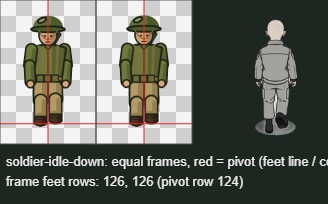
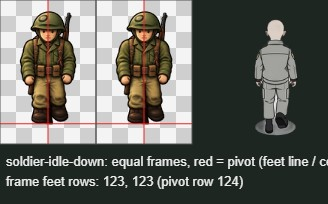
Round 2 art: v3 down walk and painted idle, boom rest fork, side-cliff trial
- Walk down v3 and the painted idle registered as candidates (replacing
  v2 and the rig idle); v3 passes the planted-foot check with no warnings.
  tools/capture-walk-clip.cjs now loops walk down -> idle -> walk up for
  the continuity clip.
- Boom rest fork (provisional) at WORLD.checkpoint.boomRest; a test pins
  the closed tip in its seat. Fence post moved to (76, 682).
- Side cliff strip and caps trialled on the gate spur only: stepped side
  slices drawn farthest-last (one lip, continuous wall), caps close the
  front strip's ends. Candidates.
- capture-gate-art.cjs gains --candidates; the terrain trial adds a 1x
  spur view. Review recorded in 07_GATE_ART_REVIEW.md and a sixth
  feedback round.

diff --git a/js/asset-manifest.js b/js/asset-manifest.js
@@ -152,16 +152,14 @@ const ASSET_MANIFEST = {
         status: 'candidate', framesPerDirection: 6, directions: ['down', 'up', 'right'], strideWorld: 22,
         drawn: {
           down: {
-            // v2: Codex's paint-over of the rig template (art/production/
-            // TERRAIN_AND_WALK_HANDOFF.md). Its foot track is MEASURED from the
-            // pixels (tools/measure-foot-track.cjs), not rendered: planted feet
-            // move 24, 22 | 25, 18 source px per frame against 25 needed (up to
-            // ~1 world px of skate at frame 5->6); helmet fixed at row 30 (no
-            // bob); accent 100% on the body, identical in every frame.
-            // The rig's own v1 strip regenerates with tools/rig-soldier.cjs.
-            status: 'candidate', file: 'assets/units/candidates/soldier-walk-down-v2.webp', version: 2,
-            source: 'art/rig/soldier_walk_down_painted_candidate.png', accent: 'art/rig/soldier_walk_down_painted_candidate_accent.png',
-            gaitTrack: 'art/rig/soldier_walk_down_painted_candidate.json', alphaCleanup: true, tint: 'none',
+            // v3: Codex's corrected paint-over (art/production/ROUND2_ART_HANDOFF.md).
+            // Measured track (tools/measure-foot-track.cjs, same result as the
+            // supplied JSON): planted sole moves 25 source px every frame, no
+            // slip; trailing sole 82 px up at frame 4; helmet fixed at row 30;
+            // accent 100% on the body, identical every frame.
+            status: 'candidate', file: 'assets/units/candidates/soldier-walk-down-v3.webp', version: 3,
+            source: 'art/rig/soldier_walk_down_painted_v3.png', accent: 'art/rig/soldier_walk_down_painted_v3_accent.png',
+            gaitTrack: 'art/rig/soldier_walk_down_painted_v3.json', alphaCleanup: true, tint: 'none',
             frames: [[0, 0, 256, 384], [256, 0, 256, 384], [512, 0, 256, 384], [768, 0, 256, 384], [1024, 0, 256, 384], [1280, 0, 256, 384]],
             pivot: [128, 330], headroom: 30, output: { frameHeight: 144 },
             names: ['R contact', 'R down', 'passing', 'L contact', 'L down', 'passing'],
@@ -172,8 +170,10 @@ const ASSET_MANIFEST = {
         status: 'candidate', framesPerDirection: 2, directions: ['down', 'up', 'right'],
         drawn: {
           down: {
-            status: 'candidate', file: 'assets/units/candidates/soldier-idle-down-v1.webp', version: 1,
-            source: 'art/rig/soldier_idle_down.png', accent: 'art/rig/soldier_idle_down_accent.png', alphaCleanup: true, tint: 'none',
+            // Painted idle from the same master as walk v3 (frame 3); both boots
+            // on row 330 in both frames, ~1% chest rise for breathing.
+            status: 'candidate', file: 'assets/units/candidates/soldier-idle-down-v2.webp', version: 2,
+            source: 'art/rig/soldier_idle_down_painted_candidate.png', accent: 'art/rig/soldier_idle_down_painted_candidate_accent.png', alphaCleanup: true, tint: 'none',
             frames: [[0, 0, 256, 384], [256, 0, 256, 384]], pivot: [128, 330], headroom: 30, output: { frameHeight: 144 },
             frameMs: [900, 900],
           },
@@ -255,6 +255,9 @@ const ASSET_MANIFEST = {
     kioskFront: { file: 'assets/props/gate_kiosk_front.png', size: [180, 318], pivot: [90, 300] },
     boom: { file: 'assets/props/gate_boom_swing.png', size: [142, 46], pin: [9, 30], reachPx: 126, axisDeg: -8 },
     post: { file: 'assets/props/gate_boom_post.png', size: [51, 84], pin: [21, 21], ground: [25, 78] },
+    // Fixed fork for the closed tip (art/production/ROUND2_ART_HANDOFF.md);
+    // reviewed in capture: the closed tip rests in its seat (render-data test).
+    rest: { status: 'provisional', file: 'assets/props/gate_boom_rest_post.png', size: [50, 74], ground: [25, 70], seat: [25, 20] },
   },
 
   terrain: {
@@ -269,6 +272,12 @@ const ASSET_MANIFEST = {
     cliff_face: { status: 'candidate', file: 'assets/terrain/cliff_face_3x.png', density: 3, size: [384, 184], edgeRow: 12, role: 'cliff lip at the plateau edge, face hangs to the foot' },
     shore_edge: { status: 'candidate', file: 'assets/terrain/shore_edge_3x.png', density: 3, size: [384, 142], edgeRow: 114, role: 'land lip above water; edge row on the waterline' },
     foam_rock_drop: { status: 'candidate', file: 'assets/terrain/foam_rock_drop_3x.png', density: 3, size: [384, 82], edgeRow: 41, role: 'foam at the waterline' },
+    // Round 2 (art/production/cliff-side-and-rest-v1.json): side face for
+    // cliff edges turned from the camera, and caps for the ends of a front
+    // strip. Trial only on `trialAreas`.
+    cliff_side_face: { status: 'candidate', file: 'assets/terrain/cliff_side_face_3x.png', density: 3, size: [384, 183], edgeRow: 12, trialAreas: ['cliff_west_spur'] },
+    cliff_side_cap_left: { status: 'candidate', file: 'assets/terrain/cliff_side_cap_left_3x.png', density: 3, size: [152, 183], edgeRow: 12, overlapPx: 15 },
+    cliff_side_cap_right: { status: 'candidate', file: 'assets/terrain/cliff_side_cap_right_3x.png', density: 3, size: [152, 183], edgeRow: 12, overlapPx: 15 },
     shore_corner_west_to_south: { status: 'candidate', file: 'assets/terrain/shore_corner_west_to_south_3x.png', density: 3, size: [256, 256], corner: [128, 128], unused: true },
     shore_corner_east_to_south: { status: 'candidate', file: 'assets/terrain/shore_corner_east_to_south_3x.png', density: 3, size: [256, 256], corner: [128, 128], unused: true },
     procedural: { status: 'interim', note: 'Cliffs, water, trees, rocks and fences are drawn in js/scenery.js until the terrain kit exists.' },

diff --git a/js/scenery.js b/js/scenery.js
@@ -53,7 +53,7 @@ function distanceToTerrain(x, y) {
 const SCENE_PROP_PLACEMENTS = [
   { prop: 'scene_lamp', x: 100, y: 642, base: 4 },              // inside the gate
   { prop: 'scene_fence', x: 36, y: 672, base: 12, scale: 0.7 },  // gate wing, south
-  { prop: 'scene_fence_post', x: 64, y: 656, base: 4, scale: 0.7 },
+  { prop: 'scene_fence_post', x: 76, y: 682, base: 4, scale: 0.7 },  // moved off the gate row (round 2 handoff)
   { prop: 'scene_noticeboard', x: 300, y: 574, base: 8 },       // by the Entrance Hall path
   { prop: 'scene_rock_moss', x: 214, y: 580, base: 10 },        // brook bank
   { prop: 'scene_grass_flower', x: 278, y: 652, base: 6 },
@@ -351,7 +351,30 @@ function drapeStrip(ctx, strip, samples, lift = 0) {
 }
 
 function terrainStripsReady() {
-  return ['cliff_face', 'shore_edge', 'foam_rock_drop'].filter(id => terrainStrip(id)).length;
+  return ['cliff_face', 'shore_edge', 'foam_rock_drop', 'cliff_side_face', 'cliff_side_cap_left', 'cliff_side_cap_right'].filter(id => terrainStrip(id)).length;
+}
+
+// One vertical slice of a strip, `w` world px wide, its edge row on `lipY`,
+// texture starting `u` world px into the repeat.
+function drawStripSlice(ctx, strip, x, lipY, w, u) {
+  const { entry, img } = strip, d = entry.density;
+  const sw = Math.min(entry.size[0], w * d), sx = Math.min(entry.size[0] - sw, ((u * d) % entry.size[0] + entry.size[0]) % entry.size[0]);
+  ctx.drawImage(img, sx, 0, sw, entry.size[1], x, lipY - entry.edgeRow / d, w, entry.size[1] / d);
+}
+
+// Caps on both ends of a front-strip run, overlapping its join by
+// `overlapPx` (the left cap joins on its right edge, the right cap on its left).
+function drawStripCaps(ctx, samples, lift) {
+  const left = terrainStrip('cliff_side_cap_left'), right = terrainStrip('cliff_side_cap_right');
+  const ends = samples.slice().sort((a, b) => a.x - b.x);
+  const place = (cap, s, joinOnRight) => {
+    if (!cap || s.x < 6 || s.x > WORLD_W - 6) return; // runs that leave the map need no cap
+    const { entry, img } = cap, d = entry.density, w = entry.size[0] / d, overlap = entry.overlapPx / d;
+    const x = joinOnRight ? s.x - w + overlap : s.x - overlap;
+    ctx.drawImage(img, x, s.y - lift - entry.edgeRow / d, w, entry.size[1] / d);
+  };
+  place(left, ends[0], true);
+  place(right, ends[ends.length - 1], false);
 }
 
 // Cliffs and outcrops. The authored polygon is the FOOT of the rock — the
@@ -365,6 +388,7 @@ function drawRockMass(ctx, area, random) {
   const rise = cliff ? 58 : 26;
   const top = poly.map(([x, y]) => [x, y - rise]);
   const lipSamples = outlineSamples(poly, cliff ? 13 : 11);
+  lipSamples.forEach((s, i) => { s.along = i * (cliff ? 13 : 11); }); // distance along the outline
   const face = lipSamples.filter(s => s.ny > -0.2);
 
   // Plateau: warm meadow on cliffs, bare rock on outcrops, darker at the rim.
@@ -391,10 +415,23 @@ function drawRockMass(ctx, area, random) {
     .filter(c => !cliffStrip || !nearStrip(c.s))
     .sort((a, b) => a.s.y - b.s.y);
   if (cliffStrip) drapeStrip(ctx, cliffStrip, stripped, rise);
-  for (const { s, jitter, width } of columns) {
+  // Trial (ASSET_MANIFEST.terrain.cliff_side_face.trialAreas): side-facing
+  // columns become slices of the painted side strip at the same stepped
+  // positions, texture taken along the outline; caps close the ends of the
+  // front strip where it meets them.
+  const sideStrip = cliff && cliffStrip ? terrainStrip('cliff_side_face') : null;
+  const sideTrial = sideStrip && (sideStrip.entry.trialAreas || []).includes(area.id);
+  // Side slices overlap heavily along a steep side; drawn nearest-last each
+  // would show only its mossy lip (a ladder), so they go farthest-last: one
+  // lip on top, continuous rock below.
+  const sideOrder = sideTrial ? columns.slice().reverse() : columns;
+  for (const { s, jitter, width } of sideOrder) {
     const step = rise * (0.72 + jitter * 0.28); // uneven tops read as stepped rock
-    drawRockColumn(ctx, s.x, s.y - step, width * (0.8 + 0.2 * Math.max(0, s.ny)), step + 3, random);
+    const w = width * (0.8 + 0.2 * Math.max(0, s.ny));
+    if (sideTrial) drawStripSlice(ctx, sideStrip, s.x - w / 2, s.y - rise, w, s.along);
+    else drawRockColumn(ctx, s.x, s.y - step, w, step + 3, random);
   }
+  if (sideTrial && stripped.length) drawStripCaps(ctx, stripped, rise);
   for (const { s } of columns) {
     if (s.ny > 0.3 && random() < 0.55) drawBoulder(ctx, s.x + (random() - 0.5) * 14, s.y + 2 + random() * 5, 3 + random() * 5, random);
   }

diff --git a/js/render.js b/js/render.js
@@ -409,6 +409,19 @@ function updateBoom(gameState, now) {
   return boomState.angle;
 }
 
+// Closed-tip rest fork: fixed, never rotated. Optional (candidate art).
+function drawBoomRest(ctx) {
+  const rest = ASSET_MANIFEST.checkpoint.rest, at = WORLD.checkpoint.boomRest;
+  ctx.drawImage(checkpointSprite(rest), at.x - rest.ground[0] / 3, at.y - rest.ground[1] / 3, rest.size[0] / 3, rest.size[1] / 3);
+}
+
+// World point of the boom tip at an angle (pin at the post's height).
+function boomTip(angleDeg) {
+  const { post, boom } = ASSET_MANIFEST.checkpoint, hinge = WORLD.checkpoint.boomHinge, rad = angleDeg * Math.PI / 180;
+  const pin = { x: hinge.x + (post.pin[0] - post.ground[0]) / 3, y: hinge.y - (post.ground[1] - post.pin[1]) / 3 };
+  return { x: pin.x + Math.cos(rad) * boom.reachPx / 3, y: pin.y + Math.sin(rad) * boom.reachPx / 3 };
+}
+
 function drawKiosk(ctx, layerName) {
   const layer = ASSET_MANIFEST.checkpoint[layerName];
   const { kioskPivot } = WORLD.checkpoint;
@@ -450,7 +463,9 @@ function checkpointItems(gameState, now) {
     { y: Math.min(...kiosk.map(p => p[1])), draw: ctx => drawKiosk(ctx, 'kioskBack') },
     { y: Math.max(...kiosk.map(p => p[1])), draw: ctx => drawKiosk(ctx, 'kioskFront') },
     { y: boomHinge.y, draw: ctx => drawBoom(ctx, angle) },
-  ];
+  ].concat(assetInUse(ASSET_MANIFEST.checkpoint.rest, typeof ALLOW_CANDIDATE_ART !== 'undefined' && ALLOW_CANDIDATE_ART)
+    && spriteReady(checkpointSprite(ASSET_MANIFEST.checkpoint.rest))
+    ? [{ y: WORLD.checkpoint.boomRest.y, draw: drawBoomRest }] : []);
 }
 
 // Interim gate: one sprite in the gap of the west fence, until the

diff --git a/service-worker.js b/service-worker.js
@@ -1,5 +1,5 @@
 // Offline support for the static game. Increase the version when changing cached assets.
-const CACHE_NAME = 'command-base-v11';
+const CACHE_NAME = 'command-base-v12';
 const APP_FILES = [
   "./",
   "index.html",
@@ -43,6 +43,7 @@ const APP_FILES = [
   "assets/illustrations/icon-192.png",
   "assets/illustrations/icon-512.png",
   "assets/props/gate_boom_post.png",
+  "assets/props/gate_boom_rest_post.png",
   "assets/props/gate_boom_swing.png",
   "assets/props/gate_kiosk_back.png",
   "assets/props/gate_kiosk_front.png",
@@ -64,8 +65,8 @@ const APP_FILES = [
   "assets/terrain/road.png",
   "assets/terrain/wall.png",
   "assets/units/candidates/soldier-fire-candidate-v1.webp",
-  "assets/units/candidates/soldier-idle-down-v1.webp",
-  "assets/units/candidates/soldier-walk-down-v2.webp",
+  "assets/units/candidates/soldier-idle-down-v2.webp",
+  "assets/units/candidates/soldier-walk-down-v3.webp",
   "assets/units/civilians/.gitkeep",
   "assets/units/civilians/bus_rider.png",
   "assets/units/civilians/bus_rider_down.png",

diff --git a/js/world.js b/js/world.js
@@ -125,6 +125,9 @@ const WORLD = {
     // through once it swings open.
     pause: { x: 20, y: 611 }, guard: { x: 96, y: 598 },
     boomHinge: { x: 40, y: 632 }, boomLength: 42, boomClosedAngle: -90, boomOpenAngle: 0,
+    // Ground point of the fixed fork the closed boom's tip rests in (north
+    // edge of the trail); its seat is at the pole's height above it.
+    boomRest: { x: 39, y: 588 },
   },
 
   // Named safe nodes for fallbacks (migration, stuck units, departures).

diff --git a/art/CHATGPT_FEEDBACK.md b/art/CHATGPT_FEEDBACK.md
@@ -176,3 +176,12 @@ Full record: `CLAUDE_IMPLEMENTATION/07_GATE_ART_REVIEW.md`, with screenshots in 
 - **Boom: integrated, provisional.** One correction: the contract's hinge (40, 632) is the post's **foot** on the ground, not the raised pin. The game now uses your `ground` pivot there, and the pin sits 19 world px up. The pole is drawn rising about 8°; the game corrects for that. For future rotating parts, draw them exactly horizontal. **Please add** a small receiving fork post that the closed tip rests on at the trail's north edge (ground about (40, 594)). At rest, a pole pointing north still looks like an upright striped post in this camera.
 - **Terrain strips: a trial, still candidates.** Shore and foam on the gentle north banks of the creek and pond look clearly better. The cliff face works on the long north cliff but clashes on short outcrops, where the procedural grey side columns remain. **Please make** a side-facing cliff strip (for faces turned 40–90° from the camera) plus left and right end caps in the same rock, so a whole outcrop can be drawn in one style. The corners weren't needed.
 - **Painted down-walk: gait check passes, still a candidate.** The worst measured slip is 1.03 world px at frame 5→6: the planted foot moves 18 px where it should move 25. The trailing foot barely lifts (9 px at frame 4, where the template has about 70). The accent doesn't drift. **Next:** fix frames 5–6 and the trailing-foot lift, then paint the **idle** (2 frames) from the same master. Up/right walks can follow after that is approved. Until idle and the other directions exist, the soldier changes appearance when turning.
+
+## Sixth round (27 September): round 2 reviewed in game
+
+Record: `CLAUDE_IMPLEMENTATION/07_GATE_ART_REVIEW.md` → "Round 2"; screenshots `docs/screenshots/2026-09-27-r2-*`.
+
+- **Walk down v3: passes every measured check.** The planted sole moves exactly 25 px per frame, the trailing foot lifts properly, and the accent is steady. The frame-4 correction was right; my round 1 measurement was wrong there. **Idle: good.** In the 30-second game-size clip, walk down to idle is seamless. Both stay candidates for one reason only: turning up or sideways switches to the old grey still, so the soldier changes identity and glides.
+- **Next (highest value):** soldier **walk up** (6 frames) and **walk right** (6 frames), plus idle up/right (2 each), from the same master and the same rules. Claude can render rig pose templates for up/right to paint over if that helps; ask. Once those exist, the soldier can be shown by default and nobody in uniform glides.
+- **Boom rest fork: in the game by default (provisional).** The tip lands in the seat (within 0.4 world px), and the fence-post move worked.
+- **Side cliff + caps: promising, still candidates.** The caps join well. The side face works when stacked as stepped slices (only the top slice shows its moss lip), and reads as a shaded east wall. It is narrow at this map scale and cooler in tone than the cap; a slightly warmer variant would match the cap better. Before it spreads beyond the gate spur, a review of the north cliff's ends is needed.

diff --git a/CLAUDE_IMPLEMENTATION/07_GATE_ART_REVIEW.md b/CLAUDE_IMPLEMENTATION/07_GATE_ART_REVIEW.md
@@ -52,3 +52,22 @@ Method: faces are vertical in this camera, so strips are never rotated. Each is 
 
 - Soldier labels step apart when people overlap, but in a walking pair they hop between positions from frame to frame (visible in the step strip). Label placement should be made stable before the Gate 2 clip review.
 - Headless software rendering went from 16.7 to 21.6 ms average per frame with the 3× images. Check on a real phone.
+
+## Round 2 (art/production/ROUND2_ART_HANDOFF.md)
+
+| Asset | Result | Status now |
+| --- | --- | --- |
+| Walk down v3 | Gait check passes (every pair of frames differs by ≥ 15% in the legs; the front foot alternates). Measured track: the planted sole moves **25 px every frame, with no slip**. The trailing sole is 82 px up at frame 4, which confirms that the round 1 "9 px" was my half-cell probe misreading a boot that crossed the cell centre. The accent sits 100% on the body with no drift. `validate-assets` now passes with no warnings | **candidate** (replaces v2) |
+| Painted idle down | Both boots on row 330 in both frames; accent steady | **candidate** (replaces the rig idle) |
+| Boom rest fork | At world ground (39, 588). The closed tip computes to (38.7, 571.0) and the seat to (39.0, 571.3), and a render-data test pins it within 1 world px. Closed, the pole now reads clearly as a barrier spanning post to fork; open, the fork stands empty. It keeps clear of the check-in stop | **provisional** (shown by default) |
+| Fence post | Moved from (64, 656) to (76, 682) and passes the placement validator. The gate row is no longer crowded | placement |
+| Side cliff + caps | Trial on `cliff_west_spur` only (`trialAreas`). The caps close the front strip's end neatly. Side slices drawn nearest-last each showed only their mossy lip, giving a **ladder** of stripes; drawn farthest-last they read as **one continuous shaded east wall**, which fits the upper-left light. The side is narrow and cooler in tone than the cap | **candidate** |
+
+**Continuity clip** (`tools/capture-walk-clip.cjs`, 30 s at zoom 1): two soldiers walk down the west trail, stand facing down for 3 s, then walk back up. Walk down to idle is continuous: the same soldier, feet in place, no pop, no visible upper-body shimmer. Turning to walk **up** switches to the old grey still (no helmet, a different figure) and **glides**. That's the largest remaining visual problem, and it's why the walk stays a candidate: shown by default, the painted soldier would change into the grey one every time they turn.
+
+Evidence: `docs/screenshots/2026-09-27-r2-*`:
+- `gate-sequence-1.6x`, `home-default`, `phone-default` and `phone-candidates`: 8/8 gate checks each run.
+- `spur-1x` and `spur-1.6x`.
+- `walk-v3-steps`, `walk-v3-clip-contact` and `walk-idle-sequence-1x` (frames every 0.25 s from the clip).
+
+Full regression: 17/17 browser checks. Average frame 22.6 ms (headless software rendering).
